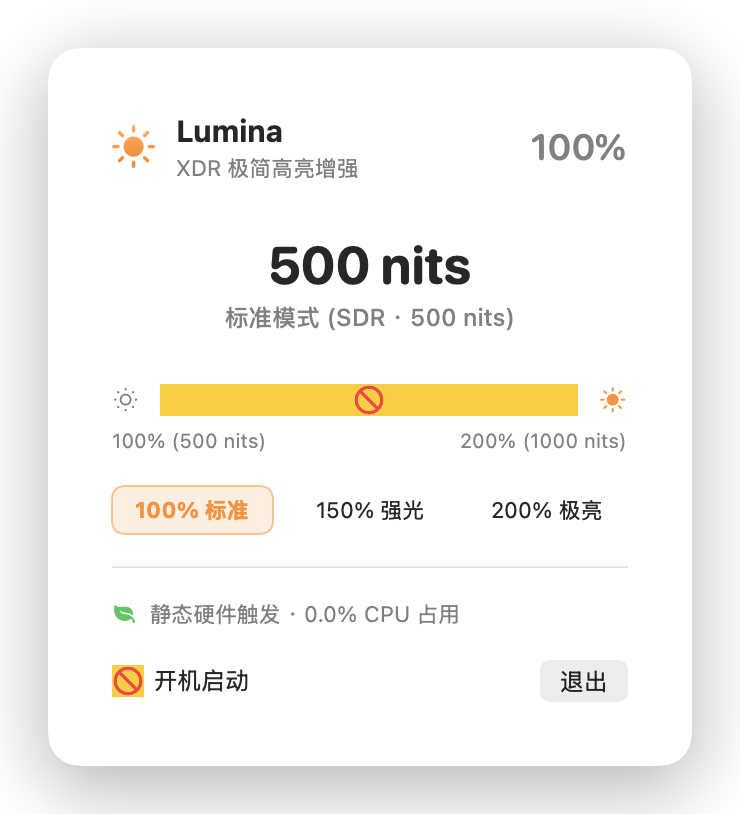
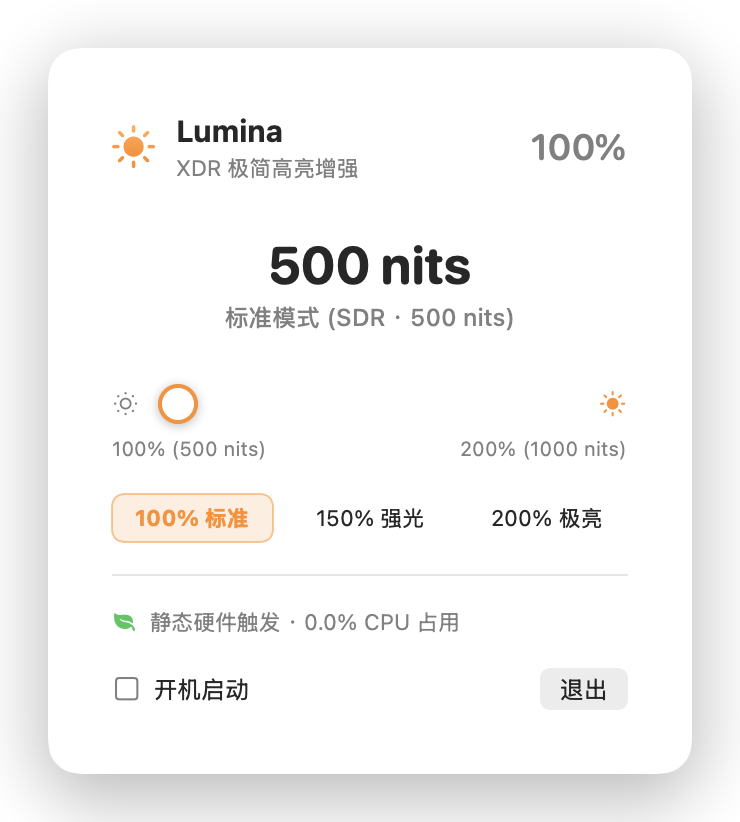
fix(ui): replace AppKit controls with custom vector slider and checkbox to eliminate placeholder glyphs in preview

diff --git a/Sources/LuminaView.swift b/Sources/LuminaView.swift
@@ -1,5 +1,50 @@
 import SwiftUI
 
+struct LuminaSlider: View {
+    @Binding var value: Double
+    let range: ClosedRange<Double>
+
+    var body: some View {
+        GeometryReader { geometry in
+            let width = geometry.size.width
+            let percent = CGFloat((value - range.lowerBound) / (range.upperBound - range.lowerBound))
+            let knobX = min(max(percent * width, 9), width - 9)
+
+            ZStack(alignment: .leading) {
+                // Background Track
+                Capsule()
+                    .fill(Color.white.opacity(0.12))
+                    .frame(height: 6)
+
+                // Active Progress Track
+                Capsule()
+                    .fill(LinearGradient(colors: [.orange, .yellow], startPoint: .leading, endPoint: .trailing))
+                    .frame(width: max(knobX, 6), height: 6)
+
+                // Glowing Knob
+                Circle()
+                    .fill(Color.white)
+                    .frame(width: 18, height: 18)
+                    .shadow(color: .black.opacity(0.3), radius: 3, x: 0, y: 1)
+                    .overlay(Circle().stroke(Color.orange, lineWidth: 2))
+                    .offset(x: knobX - 9)
+            }
+            .frame(height: 20)
+            .contentShape(Rectangle())
+            .gesture(
+                DragGesture(minimumDistance: 0)
+                    .onChanged { gesture in
+                        let location = min(max(gesture.location.x, 0), width)
+                        let newPercent = Double(location / width)
+                        let newValue = range.lowerBound + newPercent * (range.upperBound - range.lowerBound)
+                        value = round(newValue)
+                    }
+            )
+        }
+        .frame(height: 20)
+    }
+}
+
 struct LuminaView: View {
     @ObservedObject var manager = BrightnessManager.shared
 
@@ -61,15 +106,14 @@ struct LuminaView: View {
             .background(Color(NSColor.controlBackgroundColor).opacity(0.6))
             .clipShape(RoundedRectangle(cornerRadius: 10, style: .continuous))
 
-            // Slider
+            // Custom Slider
             VStack(spacing: 6) {
                 HStack(spacing: 10) {
                     Image(systemName: "sun.min")
                         .font(.system(size: 12))
                         .foregroundStyle(.secondary)
 
-                    Slider(value: $manager.brightnessPercentage, in: 100...200, step: 1)
-                        .tint(.orange)
+                    LuminaSlider(value: $manager.brightnessPercentage, range: 100...200)
 
                     Image(systemName: "sun.max.fill")
                         .font(.system(size: 12))
@@ -109,9 +153,19 @@ struct LuminaView: View {
 
             // Settings & Quit
             HStack {
-                Toggle("开机启动", isOn: $manager.launchAtLogin)
-                    .toggleStyle(.checkbox)
-                    .font(.system(size: 12))
+                Button(action: {
+                    manager.launchAtLogin.toggle()
+                }) {
+                    HStack(spacing: 6) {
+                        Image(systemName: manager.launchAtLogin ? "checkmark.square.fill" : "square")
+                            .font(.system(size: 13))
+                            .foregroundStyle(manager.launchAtLogin ? Color.orange : Color.secondary)
+                        Text("开机启动")
+                            .font(.system(size: 12))
+                            .foregroundStyle(Color.primary)
+                    }
+                }
+                .buttonStyle(.plain)
 
                 Spacer()
 
